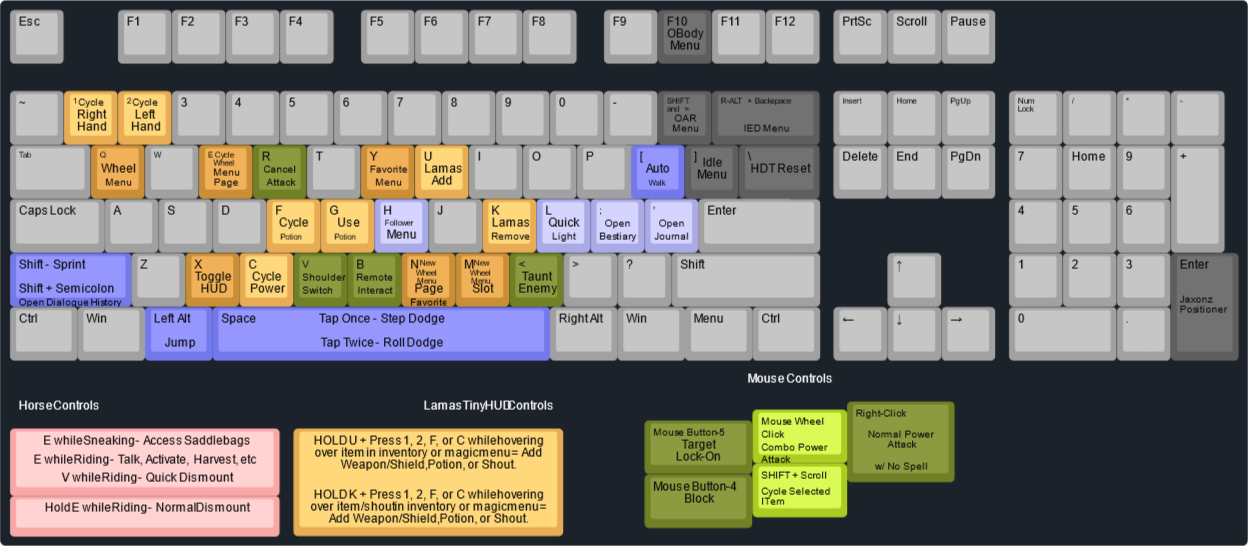
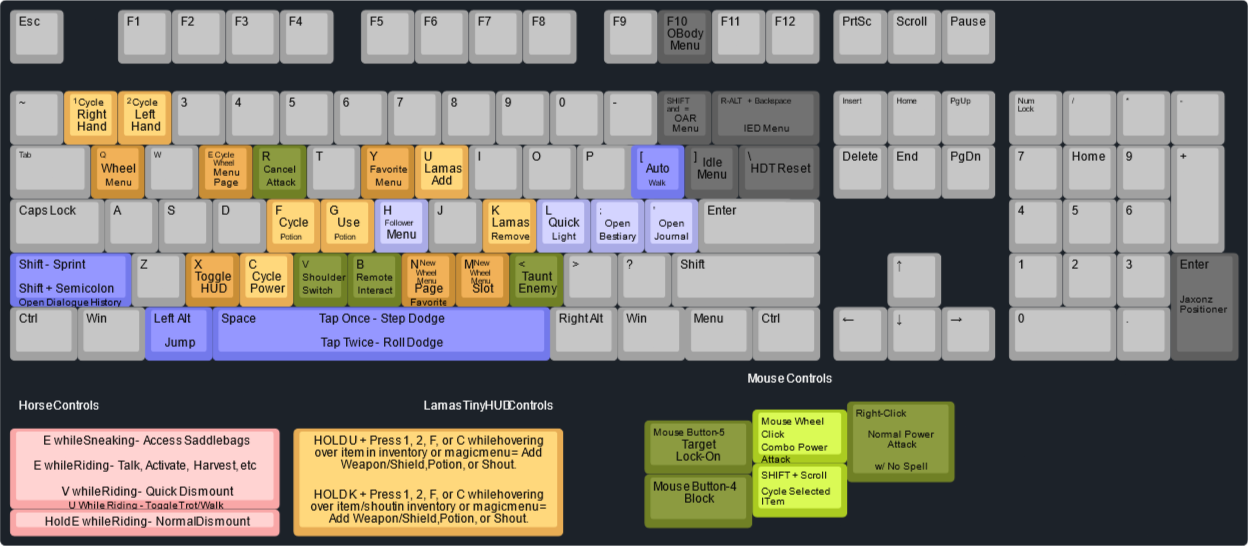
horse trotting hotkey

Changed region(s): [[0.0, 0.8095, 0.2188, 0.9963]]

diff --git a/content/en/docs/Mandatory Reading/Gameplay Guide/importanthotkeys.md b/content/en/docs/Mandatory Reading/Gameplay Guide/importanthotkeys.md
@@ -222,7 +222,12 @@ Equip items to your right or left hand from the Wheel Menu with Left Click and R
 ### V while riding a horse
 
 - Quickly dismount your horse from behind into a combat-ready state.
-- This can be changed in the Immersive Horses MCM,
+- This can be changed in the Immersive Horses MCM
+
+### U while riding a horse
+
+- Toggle trot/walk, changing the speed of the horse independently from CAPSLK
+- This can be changed in the Immersive Horses MCM
 
 ## Misc
 
